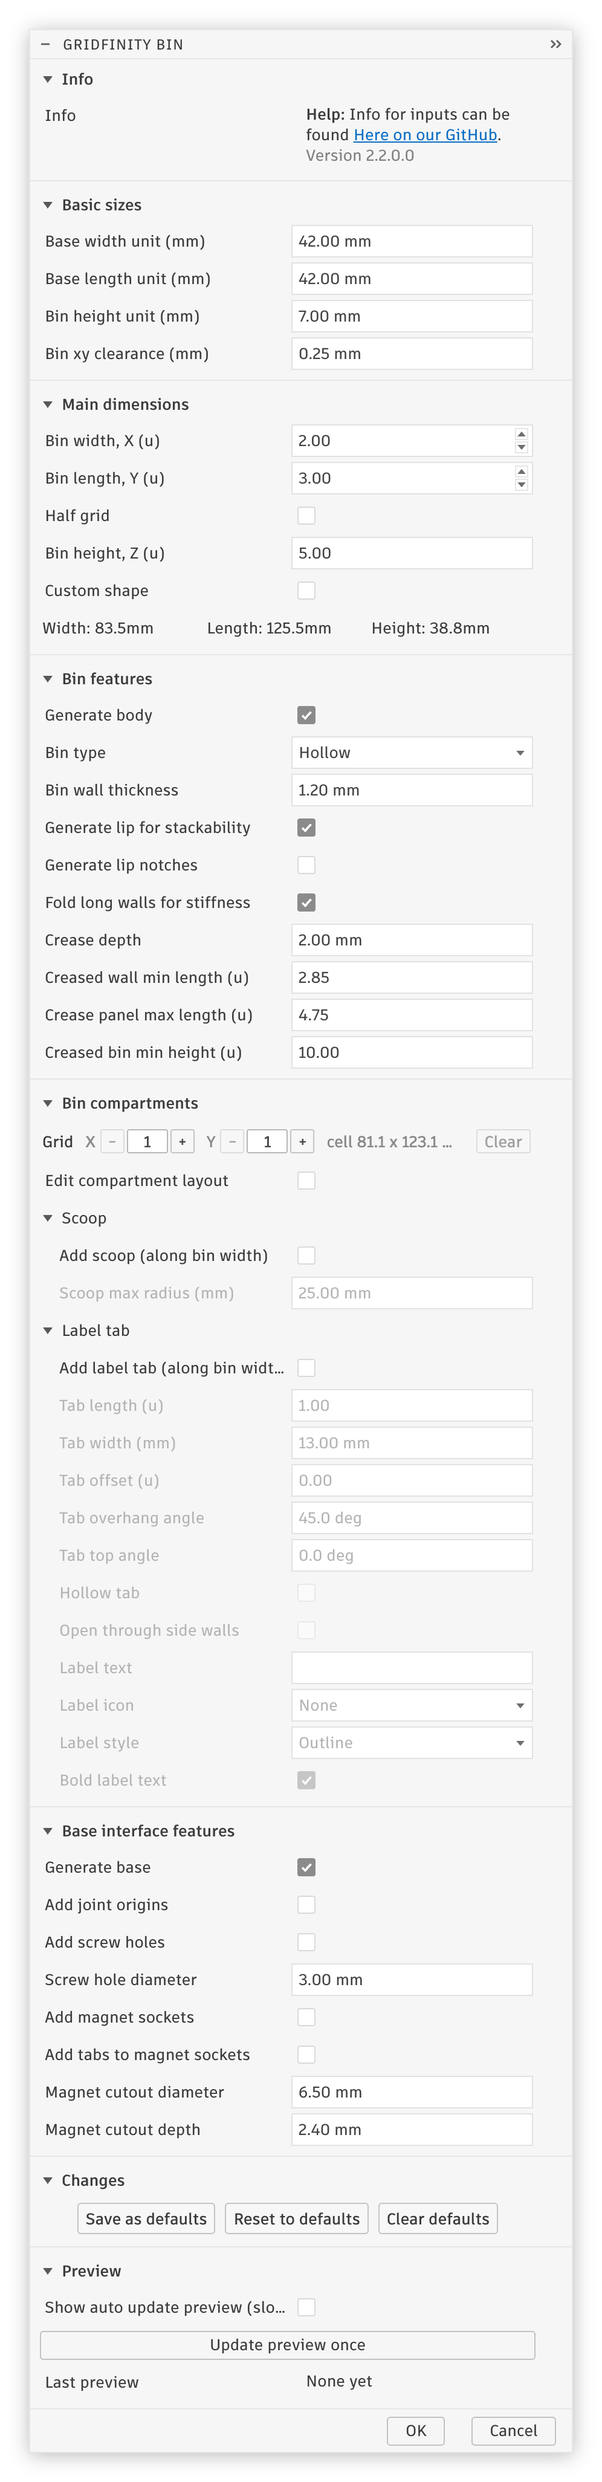
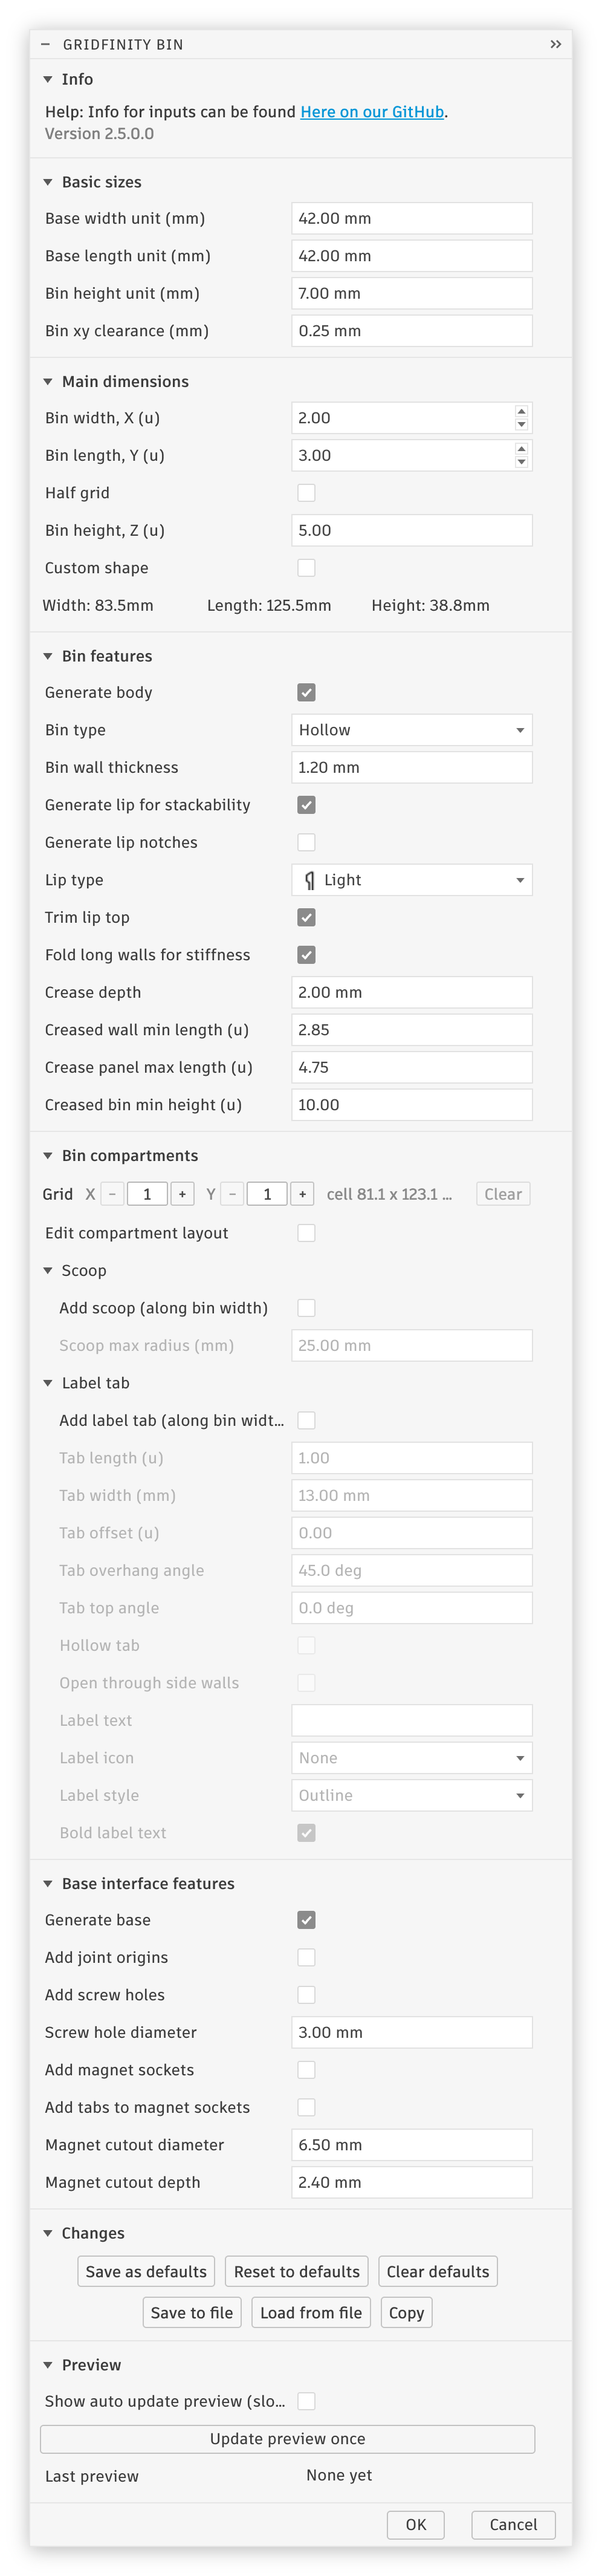
Show the lip profile beside each lip type
The lip type dropdown shows the outline of the wall cut through for
each type, drawn by tools/lipTypeIcons.py, and the bin dialog
screenshot is taken again with it.

diff --git a/tools/lipTypeIcons.py b/tools/lipTypeIcons.py
@@ -1,0 +1,111 @@
+"""
+Draws the lip type dropdown icons: the profile of a bin's wall cut through, the lip on top, the outside on the
+right, with the top trimmed as the dialog starts. Stretched across, to read at 16 pixels, drawn as an outline open at
+the bottom, where the wall goes on.
+
+    python3 tools/lipTypeIcons.py
+
+Writes an svg per lip type to commands/commandCreateBin/resources/lipTypes/ and renders the dropdown pictures
+from it into a folder of the same name, as tools/labelIcons.py does for the label icons.
+"""
+
+import math
+import os
+
+import labelIcons
+
+ICONS_FOLDER = os.path.join(os.path.dirname(os.path.dirname(os.path.abspath(__file__))), 'commands', 'commandCreateBin', 'resources', 'lipTypes')
+# icon units per mm, across stretched for the lip to show at 16 pixels, where the outside of the wall is and where the
+# bin top, the lip's bottom, is. The lip fills the height, the full lip's support ends near the bottom
+SCALE_X = 20
+SCALE_Y = 13
+OUTSIDE_X = 76
+BIN_TOP_Y = 54
+# lip and wall in mm: lip height, how much the top is trimmed, the bin wall
+LIP_HEIGHT = 4.4
+TOP_TRIM = 0.6
+WALL = 1.2
+# the stacking profile from the top: 45 degrees in, straight down, and only for the full lip, 45 degrees to its tip
+TOP_SLOPE = 1.9
+STRAIGHT = 1.8
+TIP_SLOPE = 0.7
+# under the full lip's tip a support goes straight down, then out into the wall at 45 degrees
+SUPPORT_STRAIGHT = 1.2
+# below the icon, the wall goes on past its bottom
+WALL_BOTTOM_Y = 110
+# the outline's width in icon units, a pixel at 16 pixels
+LINE = 7
+
+def point(inset: float, z: float) -> tuple[float, float]:
+    """A point in mm, inset from the outside and up from the bin top, in icon units"""
+    return (OUTSIDE_X - inset * SCALE_X, BIN_TOP_Y - z * SCALE_Y)
+
+def loop(corners: list[tuple[float, float]]) -> str:
+    return f'M{corners[0][0]:.2f},{corners[0][1]:.2f} ' + ' '.join(f'L{x:.2f},{y:.2f}' for x, y in corners[1:]) + ' Z'
+
+def inset(corners: list[tuple[float, float]], distance: float) -> list[tuple[float, float]]:
+    """The polygon with every edge moved in by the distance, its corners where the moved edges meet"""
+    area = sum(ax * by - bx * ay for (ax, ay), (bx, by) in zip(corners, corners[1:] + corners[:1]))
+    # inward is to the left of an edge going clockwise in the icon's y down coordinates
+    side = 1 if area > 0 else -1
+    lines = []
+    for (ax, ay), (bx, by) in zip(corners, corners[1:] + corners[:1]):
+        length = math.hypot(bx - ax, by - ay)
+        (nx, ny) = (-(by - ay) / length * side, (bx - ax) / length * side)
+        lines.append(((ax + nx * distance, ay + ny * distance), (bx - ax, by - ay)))
+    result = []
+    for ((p, d), (q, e)) in zip(lines[-1:] + lines[:-1], lines):
+        cross = d[0] * e[1] - d[1] * e[0]
+        t = ((q[0] - p[0]) * e[1] - (q[1] - p[1]) * e[0]) / cross
+        result.append((p[0] + d[0] * t, p[1] + d[1] * t))
+    return result
+
+def profile(points: list[tuple[float, float]]) -> str:
+    """
+    The outline of the wall from the bottom of the icon on the outside, around the lip and down the inside, open at the
+    bottom
+    """
+    corners = [(OUTSIDE_X, WALL_BOTTOM_Y), point(0, LIP_HEIGHT - TOP_TRIM), point(TOP_TRIM, LIP_HEIGHT - TOP_TRIM), *points, (OUTSIDE_X - WALL * SCALE_X, WALL_BOTTOM_Y)]
+    inner = inset(corners, LINE)
+    # the inside runs past the bottom, the sides go down along the wall
+    for index in [0, -1]:
+        inner[index] = (inner[index][0], WALL_BOTTOM_Y + LINE * 2)
+    return f'{loop(corners)} {loop(inner)}'
+
+def lightLip() -> str:
+    """The inside straight down from the end of the top slope, a chamfer under it into the wall"""
+    return profile([
+        point(TOP_SLOPE, LIP_HEIGHT - TOP_SLOPE),
+        point(TOP_SLOPE, 0),
+        point(WALL, -(TOP_SLOPE - WALL)),
+    ])
+
+def fullLip() -> str:
+    """The original profile narrowing to a tip, the support under it"""
+    tip = TOP_SLOPE + TIP_SLOPE
+    tipZ = LIP_HEIGHT - TOP_SLOPE - STRAIGHT - TIP_SLOPE
+    return profile([
+        point(TOP_SLOPE, LIP_HEIGHT - TOP_SLOPE),
+        point(TOP_SLOPE, LIP_HEIGHT - TOP_SLOPE - STRAIGHT),
+        point(tip, tipZ),
+        point(tip, tipZ - SUPPORT_STRAIGHT),
+        point(WALL, tipZ - SUPPORT_STRAIGHT - (tip - WALL)),
+    ])
+
+# by the names of the dropdown's items, binBodyLipGeneratorInput.LIP_TYPES
+ICONS = {
+    'Light': lightLip(),
+    'Full': fullLip(),
+}
+
+def main():
+    os.makedirs(ICONS_FOLDER, exist_ok=True)
+    for name, d in ICONS.items():
+        path = os.path.join(ICONS_FOLDER, f'{name}.svg')
+        with open(path, 'w') as file:
+            file.write(labelIcons.svg(d))
+        labelIcons.writePreviews(path)
+        print(os.path.relpath(path))
+
+if __name__ == '__main__':
+    main()

diff --git a/commands/commandCreateBin/entry.py b/commands/commandCreateBin/entry.py
@@ -93,6 +93,8 @@ COMMAND_BESIDE_ID = 'ScriptsManagerCommand'
 ICON_FOLDER = os.path.join(os.path.dirname(os.path.abspath(__file__)), 'resources', '')
 # picture under the description on hover, like Fusion's own commands
 TOOL_CLIP_PATH = os.path.join(ICON_FOLDER, 'toolclip.png')
+# the lip profile of each lip type in its dropdown, drawn by tools/lipTypeIcons.py
+LIP_TYPE_ICON_FOLDER = os.path.join(ICON_FOLDER, 'lipTypes')
 
 CONFIG_FOLDER_PATH = os.path.join(os.path.dirname(os.path.abspath(__file__)), 'commandConfig')
 UI_INPUT_DEFAULTS_CONFIG_PATH = os.path.join(CONFIG_FOLDER_PATH, "ui_input_defaults.json")
@@ -790,11 +792,11 @@ def command_created(args: adsk.core.CommandCreatedEventArgs):
     hasLipNotches = binFeaturesGroup.children.addBoolValueInput(BIN_WITH_LIP_NOTCHES_INPUT_ID, 'Generate lip notches', True, '', commandUIState.getState(BIN_WITH_LIP_NOTCHES_INPUT_ID))
     hasLipNotches.isEnabled = commandUIState.getState(BIN_WITH_LIP_INPUT_ID)
     commandUIState.registerCommandInput(hasLipNotches)
-    lipTypeInput = binFeaturesGroup.children.addDropDownCommandInput(BIN_LIP_TYPE_INPUT_ID, 'Lip type', adsk.core.DropDownStyles.TextListDropDownStyle)
+    lipTypeInput = binFeaturesGroup.children.addDropDownCommandInput(BIN_LIP_TYPE_INPUT_ID, 'Lip type', adsk.core.DropDownStyles.LabeledIconDropDownStyle)
     lipTypeInput.tooltip = ('Light keeps the inside of the lip straight down to the bin top. '
         'Full follows the original Gridfinity profile, narrowing to an inner tip with a support under it, and a scoop wall as thick as the tip')
     for lipType in LIP_TYPES:
-        lipTypeInput.listItems.add(lipType, lipType == commandUIState.getState(BIN_LIP_TYPE_INPUT_ID))
+        lipTypeInput.listItems.add(lipType, lipType == commandUIState.getState(BIN_LIP_TYPE_INPUT_ID), os.path.join(LIP_TYPE_ICON_FOLDER, lipType))
     commandUIState.registerCommandInput(lipTypeInput)
     lipTopTrimmedInput = binFeaturesGroup.children.addBoolValueInput(BIN_LIP_TOP_TRIMMED_INPUT_ID, 'Trim lip top', True, '', commandUIState.getState(BIN_LIP_TOP_TRIMMED_INPUT_ID))
     lipTopTrimmedInput.tooltip = 'Cuts the top of the lip flat, 0.6mm lower, instead of the sharp edge of the original profile'
